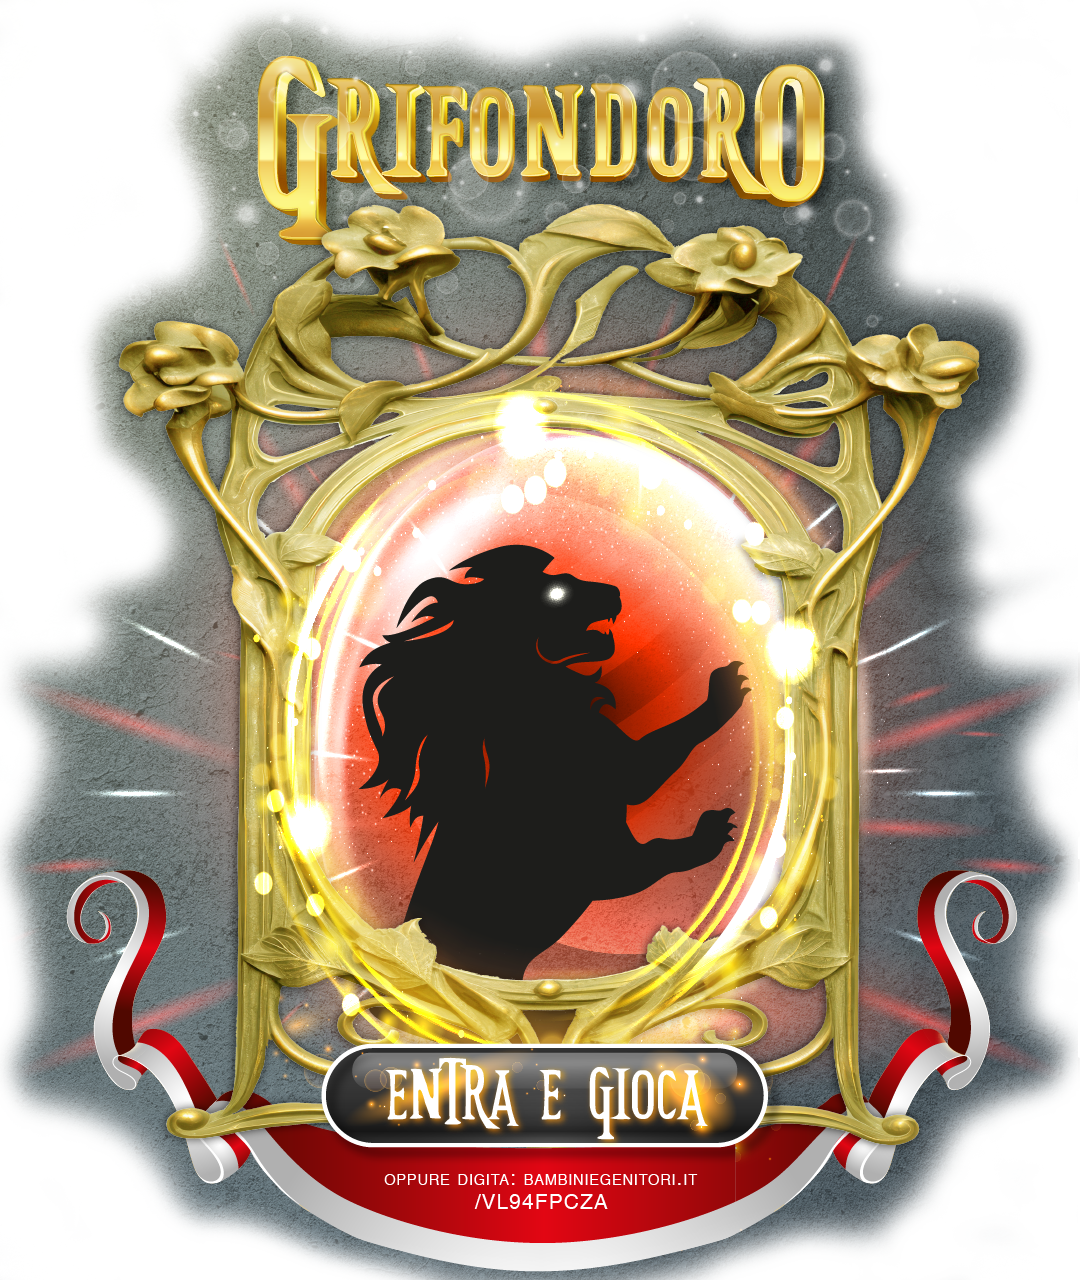
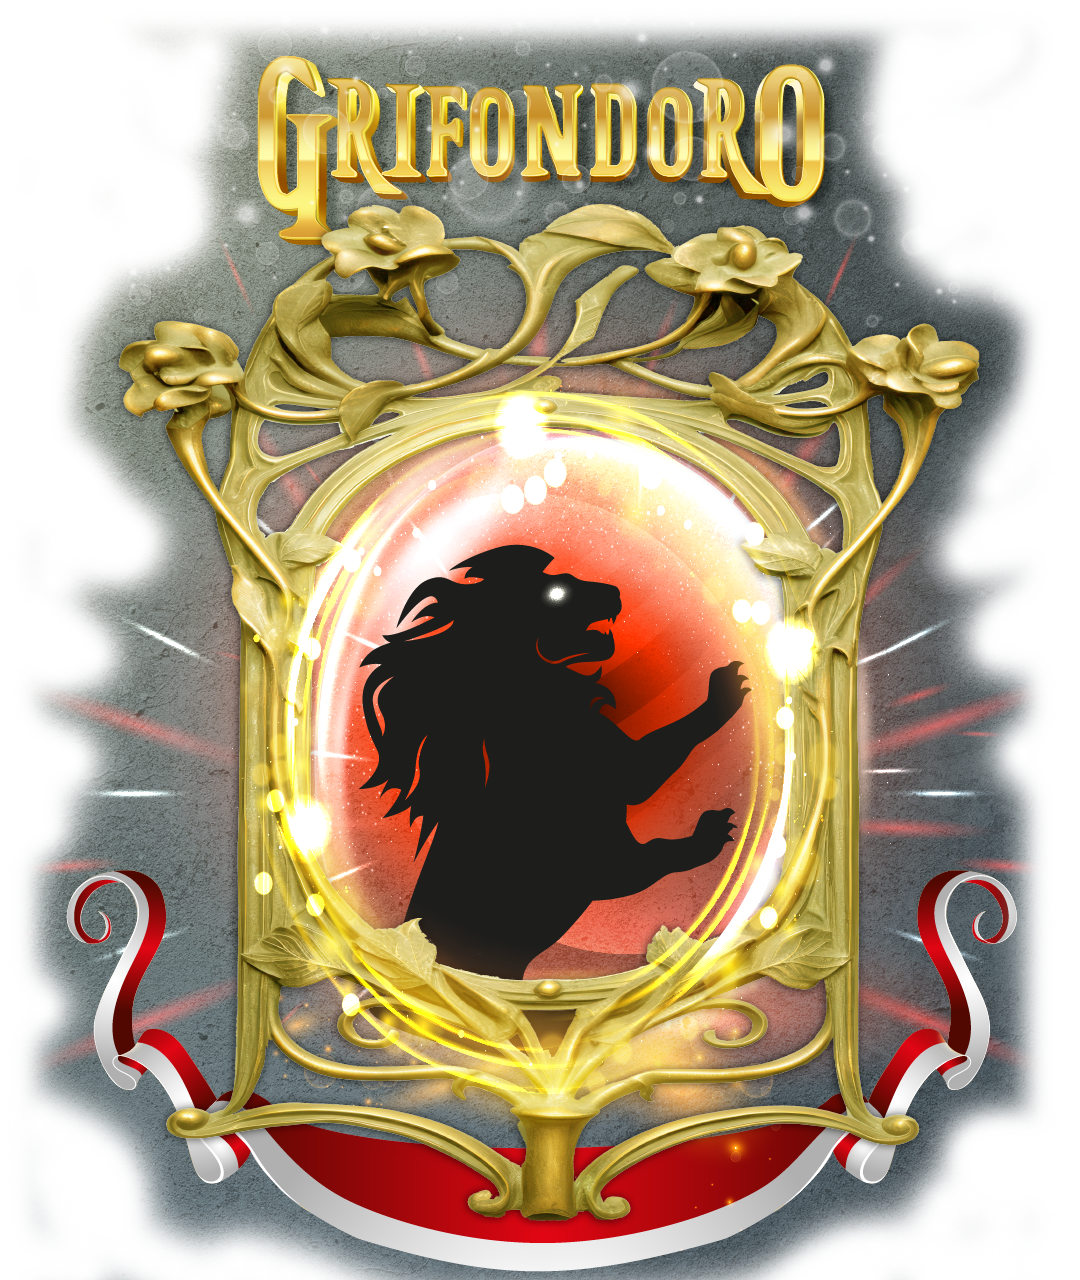
changed result page

diff --git a/src/Risultato.jsx b/src/Risultato.jsx
@@ -86,36 +86,14 @@ const Risultato = () => {
                 flex: "1 1 50%",
               }}
             >
-              Tu appartieni a
+              Tu appartieni a:
             </h1>
             <div
-              className="box"
               style={{
-                color: "#d4d4d4",
-                flex: "1 1 50%",
-                marginTop: "40px",
-              }}
-            ></div>
-            <a
-              onClick={(e) => {
-                e.preventDefault();
-                window.open(
-                  `${
-                    result === "c"
-                      ? "https://bambiniegenitori.it/J182UZWQU"
-                      : result === "g"
-                      ? "https://bambiniegenitori.it/VL94FPCZA"
-                      : result === "s"
-                      ? "https://bambiniegenitori.it/A71ERTX3E"
-                      : "https://bambiniegenitori.it/59SPXUDEJ"
-                  }`,
-                  "_blank"
-                );
-              }}
-              style={{
-                textDecoration: "none",
-                color: "inherit",
-                cursor: "pointer",
+                display: "flex",
+                flexDirection: "column",
+                justifyContent: "center",
+                alignItems: "center",
               }}
             >
               <img
@@ -132,20 +110,58 @@ const Risultato = () => {
                   width: "40vw",
                 }}
               ></img>
-            </a>
+              <a
+                onClick={(e) => {
+                  e.preventDefault();
+                  window.open(
+                    `${
+                      result === "c"
+                        ? "https://bambiniegenitori.it/J182UZWQU"
+                        : result === "g"
+                        ? "https://bambiniegenitori.it/VL94FPCZA"
+                        : result === "s"
+                        ? "https://bambiniegenitori.it/A71ERTX3E"
+                        : "https://bambiniegenitori.it/59SPXUDEJ"
+                    }`,
+                    "_blank"
+                  );
+                }}
+                style={{
+                  textDecoration: "none",
+                  color: "inherit",
+                  cursor: "pointer",
+                }}
+              >
+                <img
+                  src={HP_Prosegui}
+                  style={{
+                    width: "200px",
+                    marginTop: "20px",
+                  }}
+                ></img>
+              </a>
+            </div>
             <h4
               className="title"
               style={{
                 color: "#d4d4d4",
               }}
             >
-              Vuoi scoprire anche le altre case Magiche? Le trovi tutte{" "}
+              Oppure digita:{" "}
               <a
                 onClick={(e) => {
                   e.preventDefault();
 
                   window.open(
-                    "https://bambiniegenitori.it/portalimagici",
+                    `${
+                      result === "c"
+                        ? "https://bambiniegenitori.it/J182UZWQU"
+                        : result === "g"
+                        ? "https://bambiniegenitori.it/VL94FPCZA"
+                        : result === "s"
+                        ? "https://bambiniegenitori.it/A71ERTX3E"
+                        : "https://bambiniegenitori.it/59SPXUDEJ"
+                    }`,
                     "_blank"
                   );
                 }}
@@ -154,9 +170,18 @@ const Risultato = () => {
                   cursor: "pointer",
                 }}
               >
-                <u>Qui</u>
+                <u>
+                  {result === "c"
+                    ? "bambiniegenitori.it/J182UZWQU"
+                    : result === "g"
+                    ? "bambiniegenitori.it/VL94FPCZA"
+                    : result === "s"
+                    ? "bambiniegenitori.it/A71ERTX3E"
+                    : "bambiniegenitori.it/59SPXUDEJ"}
+                </u>
               </a>
             </h4>
+
             <div
               style={{
                 border: "1px solid white",
@@ -164,6 +189,7 @@ const Risultato = () => {
                 display: "flex",
                 alignItems: "center",
                 justifyContent: "center",
+                marginBottom: "10px",
               }}
             >
               <h3
@@ -193,6 +219,31 @@ const Risultato = () => {
                 </a>
               </h3>
             </div>
+            <h4
+              className="title"
+              style={{
+                color: "#d4d4d4",
+                marginBottom: "50px",
+              }}
+            >
+              Vuoi scoprire anche le altre case Magiche? Le trovi tutte{" "}
+              <a
+                onClick={(e) => {
+                  e.preventDefault();
+
+                  window.open(
+                    "https://bambiniegenitori.it/portalimagici",
+                    "_blank"
+                  );
+                }}
+                style={{
+                  color: "inherit",
+                  cursor: "pointer",
+                }}
+              >
+                <u>Qui</u>
+              </a>
+            </h4>
             <div
               style={{
                 width: "100%",
@@ -241,37 +292,15 @@ const Risultato = () => {
               marginBottom: "0px",
             }}
           >
-            Tu appartieni a
+            Tu appartieni a:
           </h1>
 
           <div
-            className="box"
             style={{
-              color: "#d4d4d4",
-              flex: "1 1 50%",
-              marginTop: "40px",
-            }}
-          ></div>
-          <a
-            onClick={(e) => {
-              e.preventDefault();
-              window.open(
-                `${
-                  result === "c"
-                    ? "https://bambiniegenitori.it/J182UZWQU"
-                    : result === "g"
-                    ? "https://bambiniegenitori.it/VL94FPCZA"
-                    : result === "s"
-                    ? "https://bambiniegenitori.it/A71ERTX3E"
-                    : "https://bambiniegenitori.it/59SPXUDEJ"
-                }`,
-                "_blank"
-              );
-            }}
-            style={{
-              textDecoration: "none",
-              color: "inherit",
-              cursor: "pointer",
+              display: "flex",
+              flexDirection: "column",
+              justifyContent: "center",
+              alignItems: "center",
             }}
           >
             <img
@@ -285,25 +314,61 @@ const Risultato = () => {
                   : HP_Tassorosso
               }
               style={{
-                width: "90vw",
+                width: "100vw",
               }}
             ></img>
-          </a>
+            <a
+              onClick={(e) => {
+                e.preventDefault();
+                window.open(
+                  `${
+                    result === "c"
+                      ? "https://bambiniegenitori.it/J182UZWQU"
+                      : result === "g"
+                      ? "https://bambiniegenitori.it/VL94FPCZA"
+                      : result === "s"
+                      ? "https://bambiniegenitori.it/A71ERTX3E"
+                      : "https://bambiniegenitori.it/59SPXUDEJ"
+                  }`,
+                  "_blank"
+                );
+              }}
+              style={{
+                textDecoration: "none",
+                color: "inherit",
+                cursor: "pointer",
+              }}
+            >
+              <img
+                src={HP_Prosegui}
+                style={{
+                  width: "200px",
+                  marginTop: "20px",
+                }}
+              ></img>
+            </a>
+          </div>
           <h4
             className="title"
             style={{
               color: "#d4d4d4",
-              textAlign: "center",
-              width: "90%",
             }}
           >
-            Vuoi scoprire anche le altre case Magiche? Le trovi tutte{" "}
+            Oppure digita:{" "}
             <a
               onClick={(e) => {
                 e.preventDefault();
 
                 window.open(
-                  "https://bambiniegenitori.it/portalimagici",
+                  `${
+                    result === "c"
+                      ? "https://bambiniegenitori.it/J182UZWQU"
+                      : result === "g"
+                      ? "https://bambiniegenitori.it/VL94FPCZA"
+                      : result === "s"
+                      ? "https://bambiniegenitori.it/A71ERTX3E"
+                      : "https://bambiniegenitori.it/59SPXUDEJ"
+                  }`,
                   "_blank"
                 );
               }}
@@ -312,9 +377,18 @@ const Risultato = () => {
                 cursor: "pointer",
               }}
             >
-              <u>Qui</u>
+              <u>
+                {result === "c"
+                  ? "bambiniegenitori.it/J182UZWQU"
+                  : result === "g"
+                  ? "bambiniegenitori.it/VL94FPCZA"
+                  : result === "s"
+                  ? "bambiniegenitori.it/A71ERTX3E"
+                  : "bambiniegenitori.it/59SPXUDEJ"}
+              </u>
             </a>
           </h4>
+
           <div
             style={{
               border: "1px solid white",
@@ -353,6 +427,33 @@ const Risultato = () => {
               </a>
             </h3>
           </div>
+          <h4
+            className="title"
+            style={{
+              color: "#d4d4d4",
+              textAlign: "center",
+              width: "90%",
+              marginTop: "0",
+            }}
+          >
+            Vuoi scoprire anche le altre case Magiche? Le trovi tutte{" "}
+            <a
+              onClick={(e) => {
+                e.preventDefault();
+
+                window.open(
+                  "https://bambiniegenitori.it/portalimagici",
+                  "_blank"
+                );
+              }}
+              style={{
+                color: "inherit",
+                cursor: "pointer",
+              }}
+            >
+              <u>Qui</u>
+            </a>
+          </h4>
           <div
             style={{
               width: "100%",
